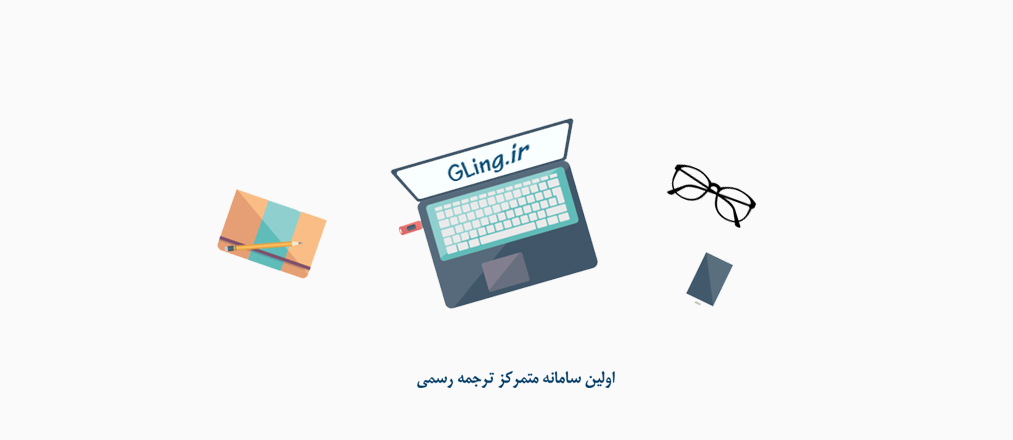
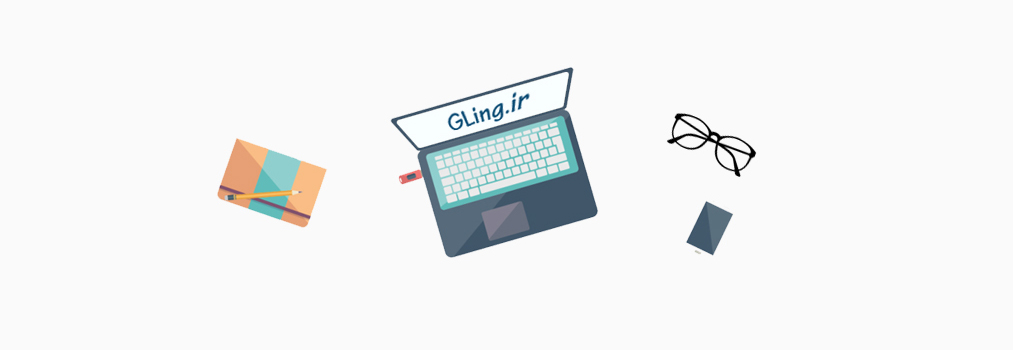
ux

diff --git a/css/styles.css b/css/styles.css
@@ -1083,3 +1083,23 @@ table.paleBlueRows tfoot td {
         font-size: 13pt;
     }
 }
+
+.cont{
+  position: relative;
+  text-align: center;
+  color: #0a689e;
+}
+
+.centered {
+  position: absolute;
+  bottom: 5%;
+  left: 50%;
+  transform: translate(-50%, -50%);
+  font-size: 1.5vw;
+  font-weight: 700;
+}
+.top-left {
+  position: absolute;
+  top: 5%;
+  left: 5%;
+}
